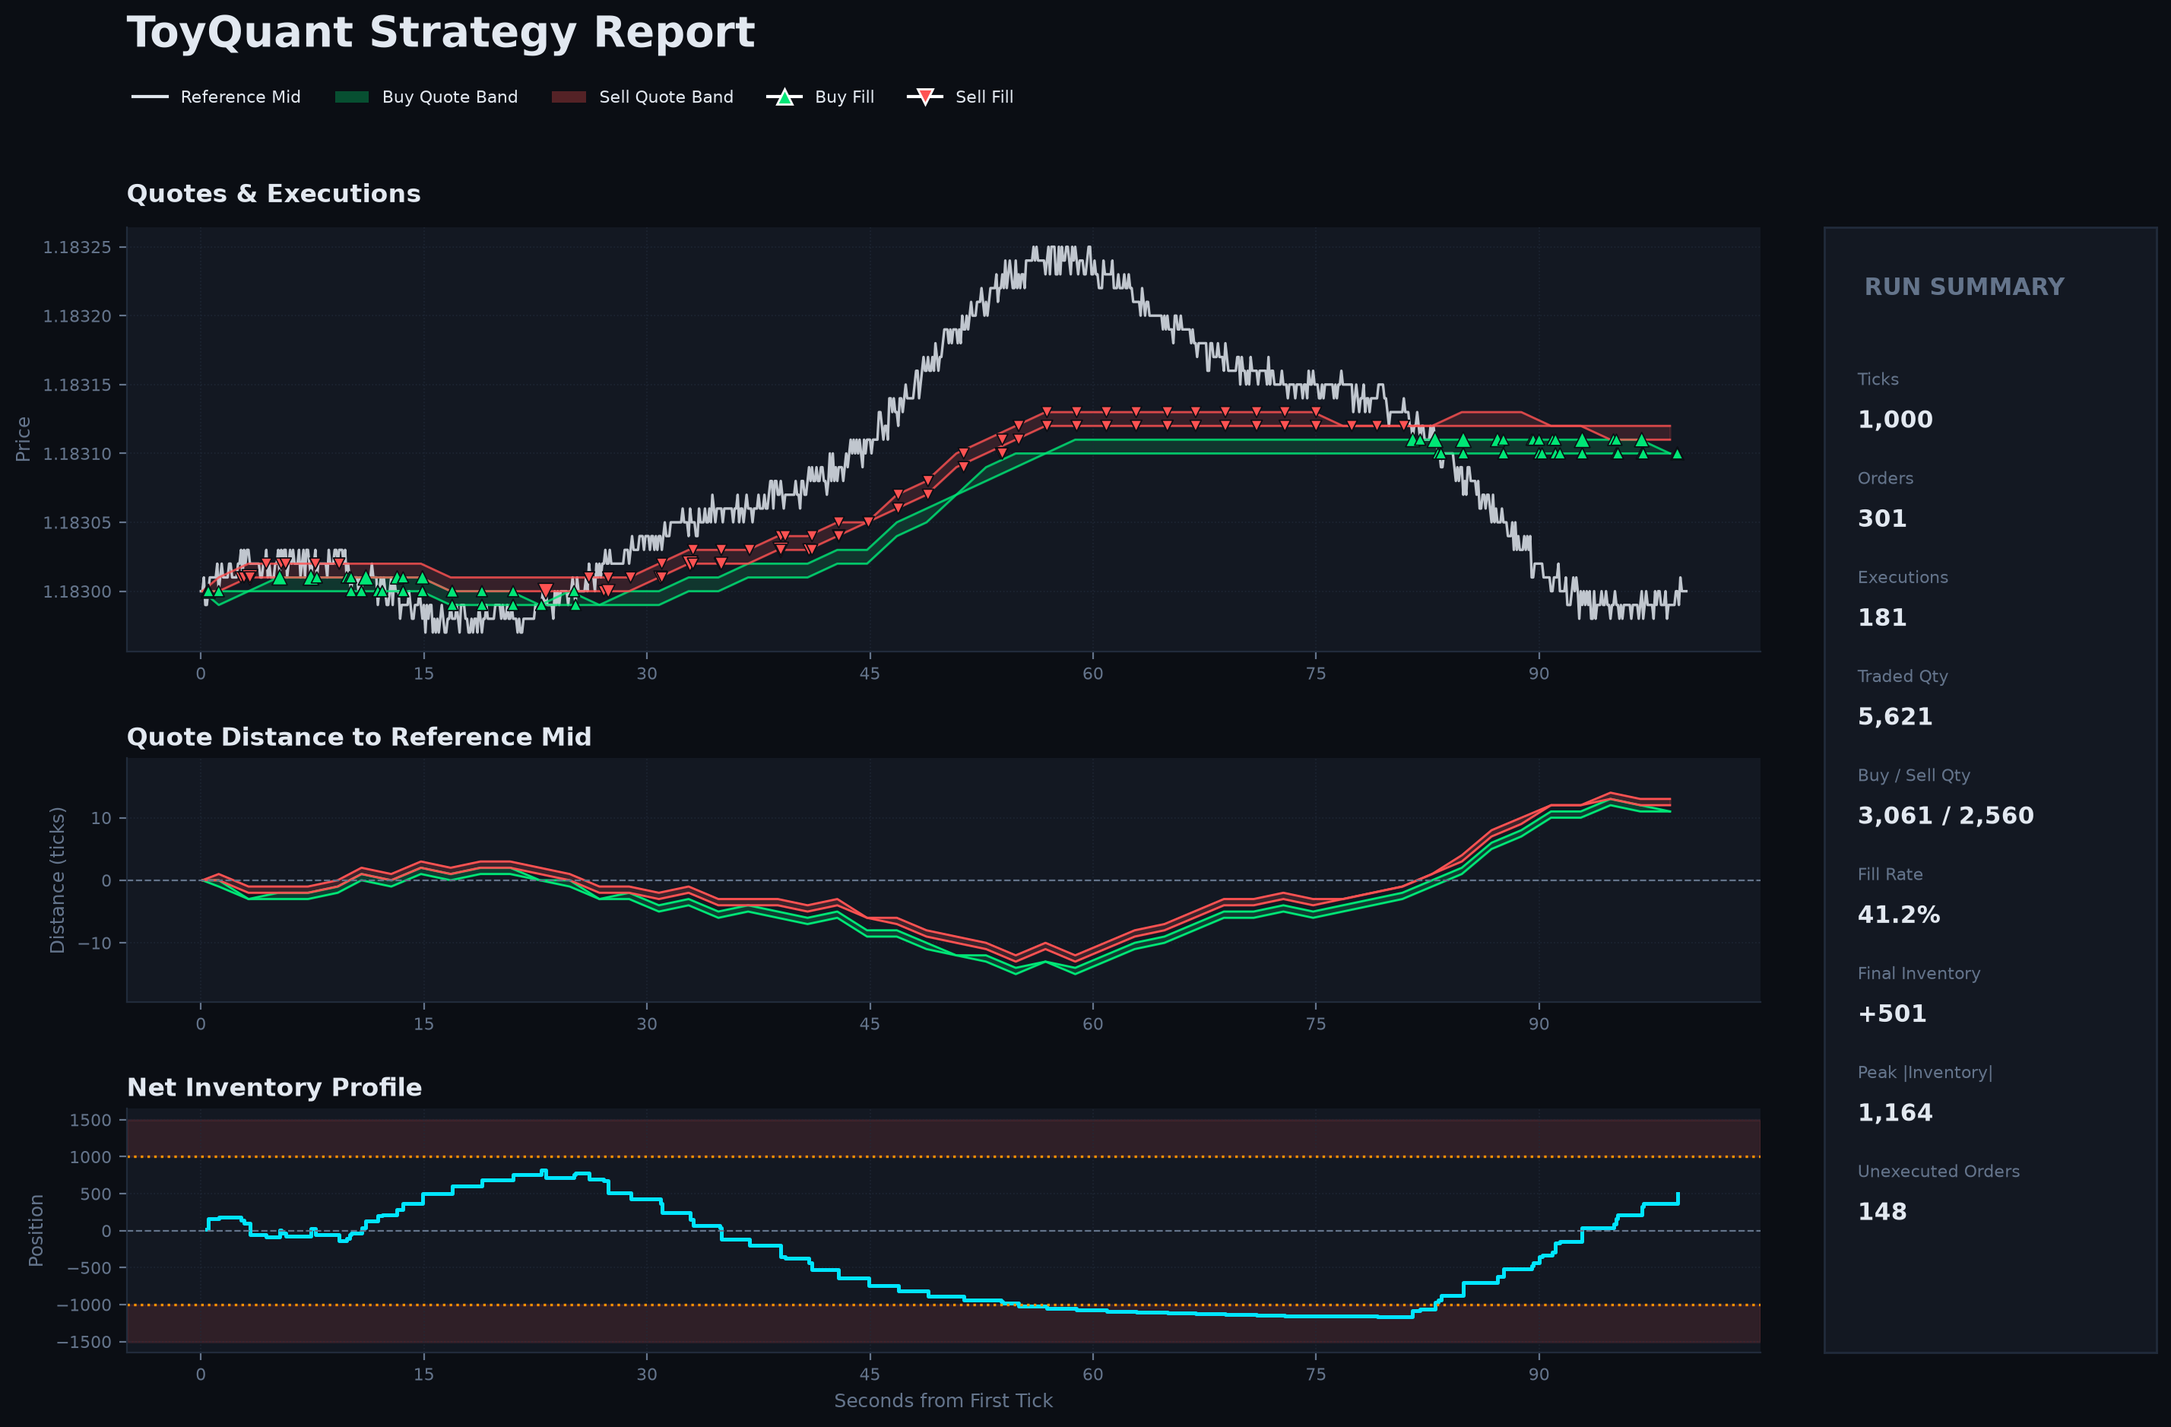
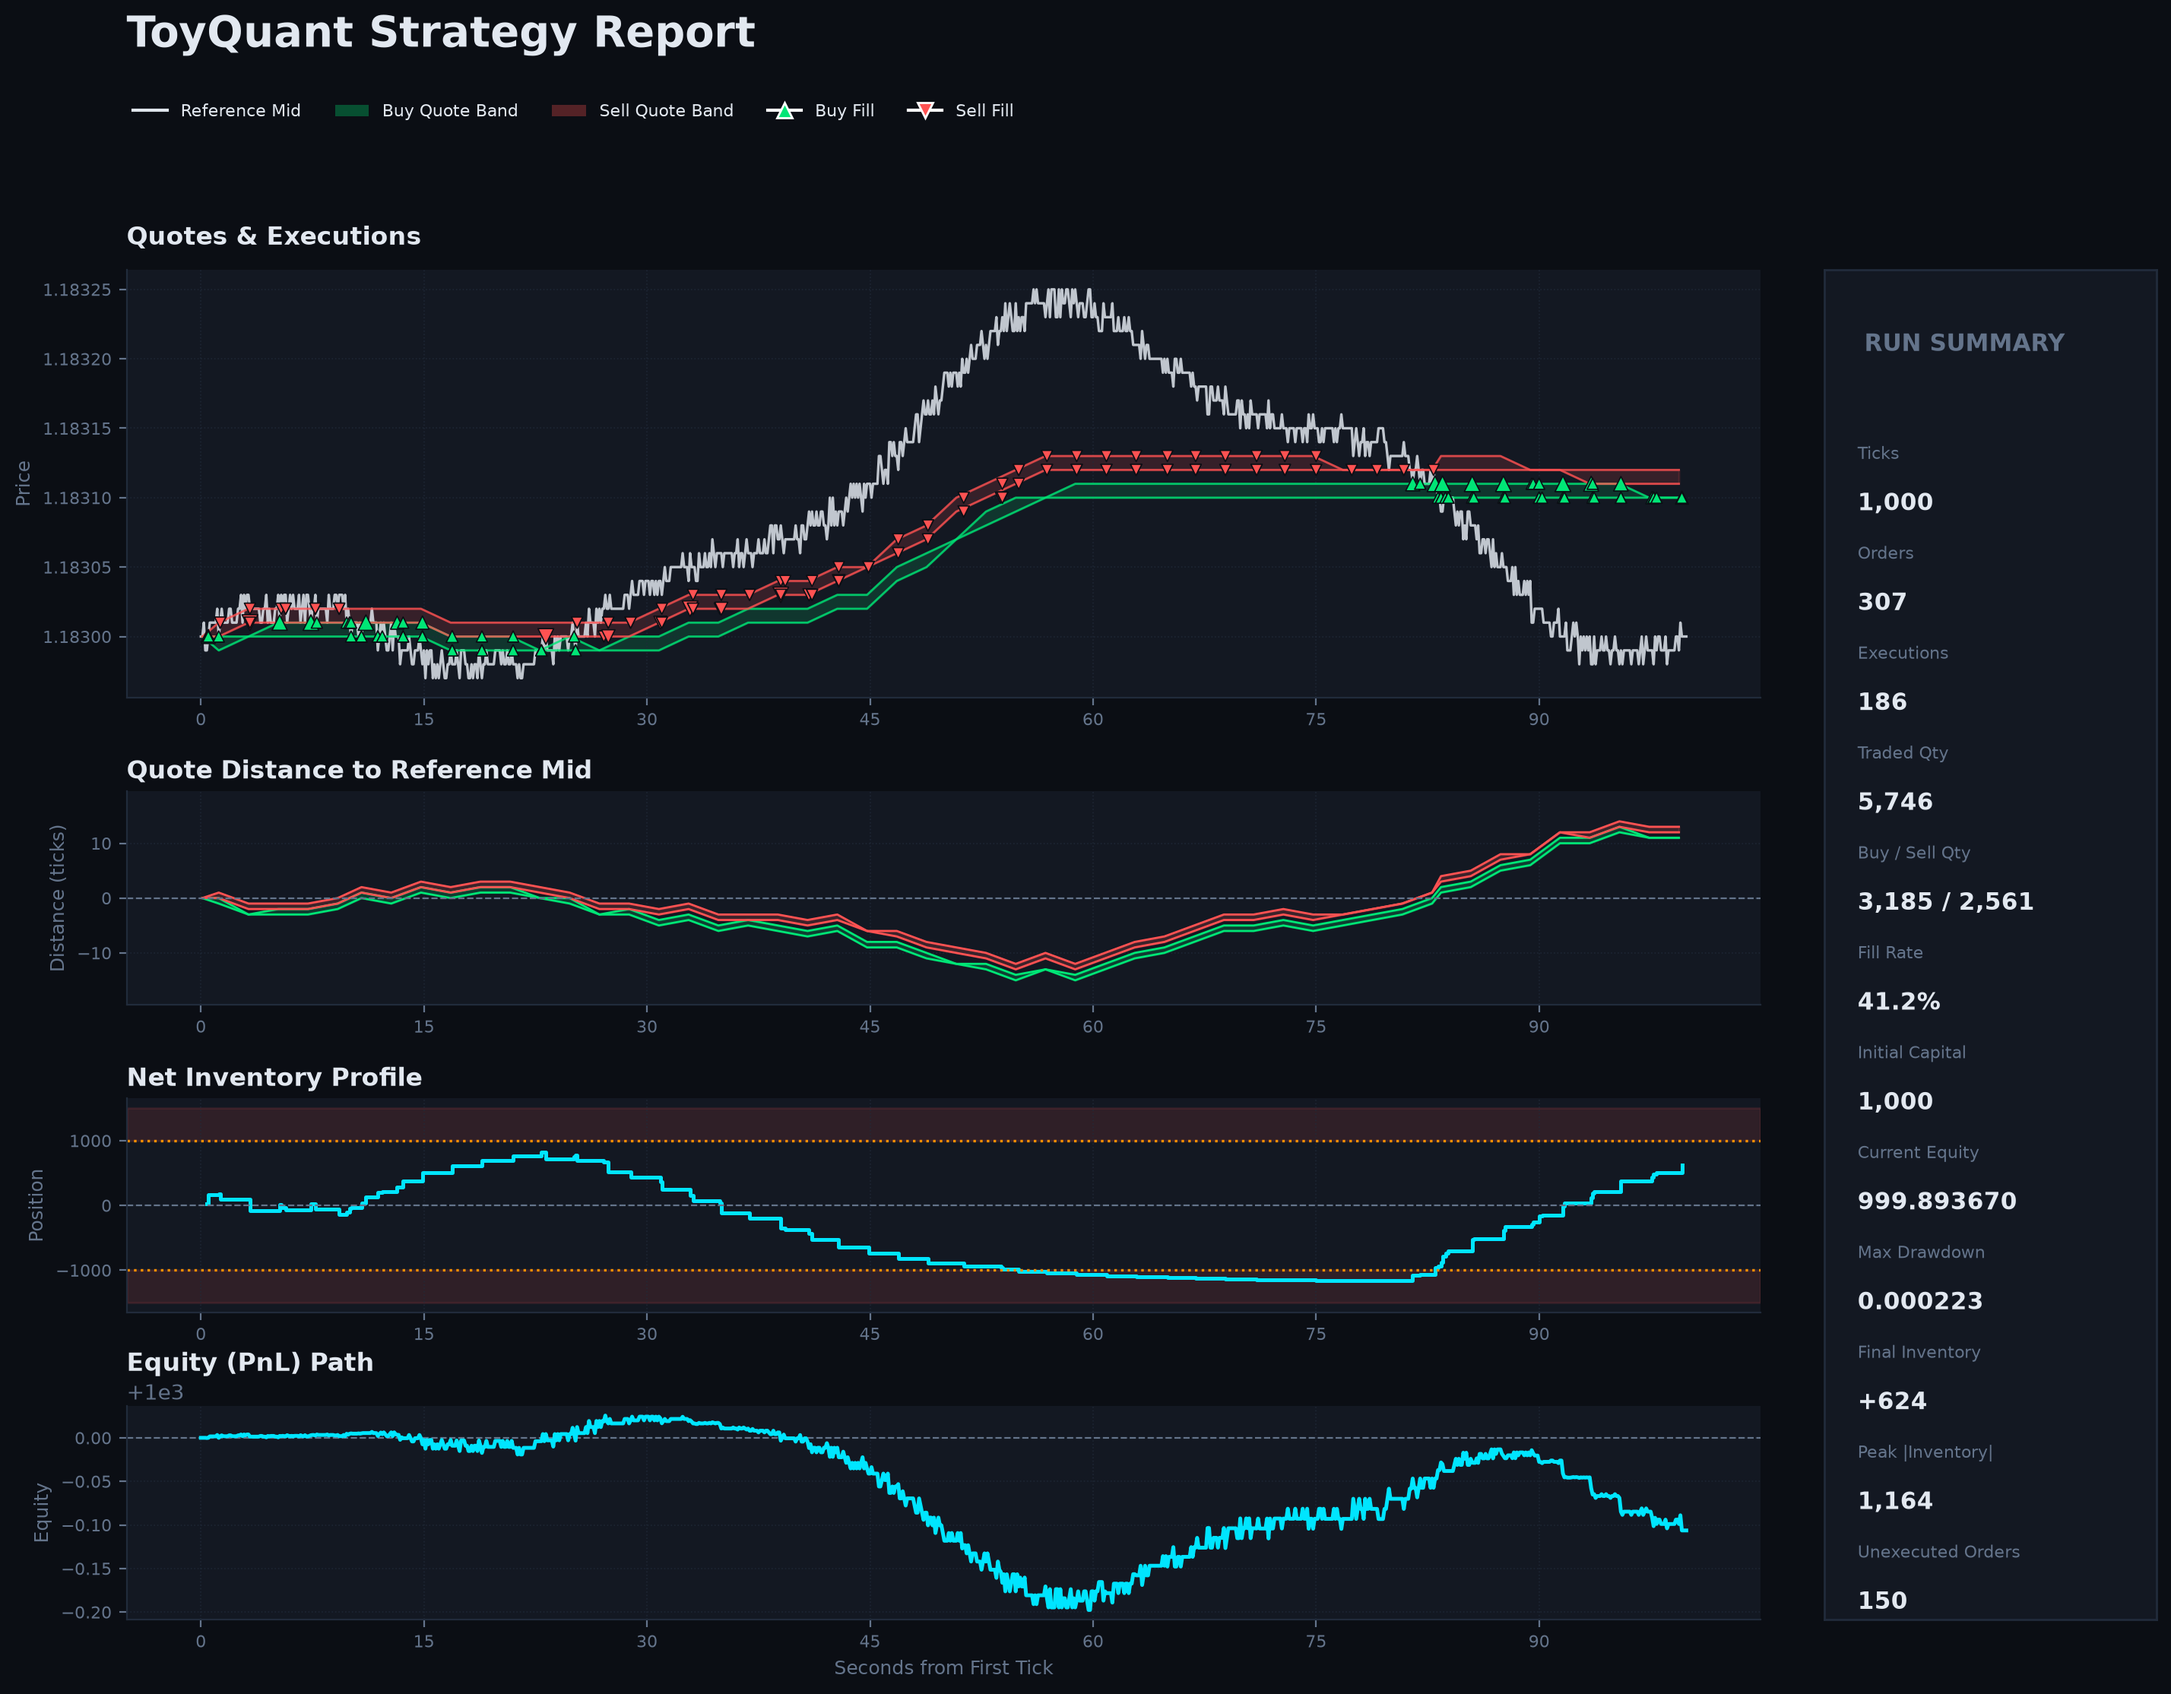
portfolio: Draw the report's equity path, and put the newest documents in the index
The report is the one artifact a reader looks at before reading anything, and its
sidebar printed `Current Equity` and `Max Drawdown` while the figure never drew
the path between them. `equity_metrics` already computed that curve and threw it
away, so drawing it costs a panel and no new input, and the numbers do not move.

The rest of the change is the same kind of staleness. `docs/index.md` is the
document that says which document answers which question, and it listed neither
of the two newest ones, so a reader following the index could not reach
`MAINLINE.md` or `RETROSPECTIVE.md` at all; the Learning Path said it points at
two places for depth where there are now four. The tracked screenshot was also
three matplotlib versions old, so regenerating it with the command the README
names moves the image to what that command produces today.

No checked claim moved: the added panel reads fields the report already
computed, and `tools/plot_report.py` is not a block the gate re-runs.

diff --git a/tools/plot_report.py b/tools/plot_report.py
@@ -152,6 +152,7 @@ def equity_metrics(tick_rows, trade_rows):
     last_prices = {}
     realized_pnl = 0.0
     equity_curve = []
+    equity_timestamps = []
     trade_index = 0
 
     for tick in tick_rows:
@@ -161,15 +162,18 @@ def equity_metrics(tick_rows, trade_rows):
             realized_pnl += apply_trade(positions, trade_rows[trade_index])
             trade_index += 1
         equity_curve.append(current_equity(realized_pnl, positions, last_prices))
+        equity_timestamps.append(tick_ts)
 
     while trade_index < len(trade_rows):
         realized_pnl += apply_trade(positions, trade_rows[trade_index])
         trade_index += 1
         equity_curve.append(current_equity(realized_pnl, positions, last_prices))
+        equity_timestamps.append(int(trade_rows[trade_index - 1]["ts"]))
 
     if not equity_curve:
         equity_curve.append(current_equity(realized_pnl, positions, last_prices))
-    return equity_curve[-1], max_drawdown(equity_curve)
+        equity_timestamps.append(0)
+    return equity_curve[-1], max_drawdown(equity_curve), equity_timestamps, equity_curve
 
 
 def build_report(tick_rows, order_rows, trade_rows, output, max_inventory):
@@ -230,7 +234,8 @@ def build_report(tick_rows, order_rows, trade_rows, output, max_inventory):
     order_ids = {row["order_id"] for row in order_rows}
     traded_ids = {row["order_id"] for row in trade_rows}
     unexecuted_orders = len(order_ids - traded_ids)
-    final_equity, report_max_drawdown = equity_metrics(tick_rows, trade_rows)
+    final_equity, report_max_drawdown, equity_timestamps, equity_values = equity_metrics(tick_rows, trade_rows)
+    equity_x = [(ts - start_ts) / 1000.0 for ts in equity_timestamps]
 
     plt.style.use("dark_background")
     plt.rcParams.update({
@@ -239,13 +244,14 @@ def build_report(tick_rows, order_rows, trade_rows, output, max_inventory):
         "axes.titleweight": "bold"
     })
 
-    fig = plt.figure(figsize=(15, 10), facecolor=COLORS["bg"])
-    layout = fig.add_gridspec(3, 5, width_ratios=(1, 1, 1, 1, 0.92),
-                              height_ratios=(2.0, 1.15, 1.15), hspace=0.35, wspace=0.18)
+    fig = plt.figure(figsize=(15, 12), facecolor=COLORS["bg"])
+    layout = fig.add_gridspec(4, 5, width_ratios=(1, 1, 1, 1, 0.92),
+                              height_ratios=(2.0, 1.0, 1.0, 1.0), hspace=0.35, wspace=0.18)
 
     price_ax = fig.add_subplot(layout[0, :4], facecolor=COLORS["panel"])
     distance_ax = fig.add_subplot(layout[1, :4], sharex=price_ax, facecolor=COLORS["panel"])
     inventory_ax = fig.add_subplot(layout[2, :4], sharex=price_ax, facecolor=COLORS["panel"])
+    equity_ax = fig.add_subplot(layout[3, :4], sharex=price_ax, facecolor=COLORS["panel"])
     kpi_ax = fig.add_subplot(layout[:, 4], facecolor=COLORS["card_bg"])
 
     # --- 1. Price Chart ---
@@ -301,10 +307,18 @@ def build_report(tick_rows, order_rows, trade_rows, output, max_inventory):
 
     inventory_ax.set_title("Net Inventory Profile", loc="left", color=COLORS["text"], fontsize=12)
     inventory_ax.set_ylabel("Position", color=COLORS["muted"], fontsize=9)
-    inventory_ax.set_xlabel("Seconds from First Tick", color=COLORS["muted"], fontsize=9)
+
+    # --- 4. Equity (PnL) Chart ---
+    # The quantity the summary reports as Current Equity, drawn as a path rather than as one number:
+    # the portfolio marked to market at every tick, with the starting capital as the reference line.
+    equity_ax.axhline(INITIAL_CAPITAL, color=COLORS["muted"], linewidth=0.8, linestyle="--")
+    equity_ax.plot(equity_x, equity_values, color=COLORS["inventory"], linewidth=1.8, zorder=3)
+    equity_ax.set_title("Equity (PnL) Path", loc="left", color=COLORS["text"], fontsize=12)
+    equity_ax.set_ylabel("Equity", color=COLORS["muted"], fontsize=9)
+    equity_ax.set_xlabel("Seconds from First Tick", color=COLORS["muted"], fontsize=9)
 
     # Apply consistent grid and border styling.
-    for axis in (price_ax, distance_ax, inventory_ax):
+    for axis in (price_ax, distance_ax, inventory_ax, equity_ax):
         axis.grid(True, color=COLORS["grid"], linestyle=":", linewidth=0.6, alpha=0.7)
         axis.spines["top"].set_visible(False)
         axis.spines["right"].set_visible(False)

diff --git a/docs/index.md b/docs/index.md
@@ -10,6 +10,7 @@ project that is a mechanical answer: most of the claims here are re-derived by t
 | evaluate the design | [Design Review](DESIGN_REVIEW.md) | [Architecture](ARCHITECTURE.md) for what exists |
 | understand market making | [Learning Path](LEARNING.md) | [Design Review](DESIGN_REVIEW.md) section 4 for the evidence |
 | read the code | [Main Line](MAINLINE.md) | the module reference in [Architecture](ARCHITECTURE.md) |
+| see why the search ended | [Retrospective](RETROSPECTIVE.md) | [Main Line](MAINLINE.md) for what to keep and what to drop |
 | run it | [User Guide](USER_GUIDE.md) | the [Data Files](https://github.com/12mango/ToyQuant-v1/blob/main/data/README.md) note for the input contracts |
 | know what it costs | [Performance](PERFORMANCE.md) | [Low-Latency Design](LATENCY_DESIGN.md) for why each change is faster |
 | see how a number was obtained | [Performance History](PERFORMANCE_HISTORY.md) | the section named in whichever document quoted it |
@@ -25,6 +26,8 @@ for talking about it out loud.
 |---|---|---|---|
 | [Design Review](DESIGN_REVIEW.md) | Why the simulator is built this way, the C++ decisions with code anchors and measured effects, the headline results, the limitations, and the interview versions | the module reference (`ARCHITECTURE`), or the raw measurement records (`PERFORMANCE_HISTORY`) | its prose is checked for flags, queue models and tool paths by `tools/lint_prose.py` |
 | [Roadmap](ROADMAP.md) | The phases from this demo to a personal execution system, what each one buys, and what is deliberately not planned | what exists today, or how to run it | prose linted with the rest |
+| [Main Line](MAINLINE.md) | The order to read the source in, the measured result each step produced, and the per-part verdict on what to keep, freeze or delete | how to run anything, or the mechanism behind a result (`LEARNING`) | prose linted |
+| [Retrospective](RETROSPECTIVE.md) | The closing document: the eight markets this project closed, the number that closed each one, and the rules that came out of it | what exists in the code, or how to run it | prose linted |
 | [Architecture](ARCHITECTURE.md) | What each module is, the data contracts between them, and the matching rules | the rationale and trade-offs (`DESIGN_REVIEW`) | marked blocks re-run by `tools/check_docs.py`; prose linted |
 | [Learning Path](LEARNING.md) | The market-making mechanisms the simulator exists to show, and a field reference | engineering decisions, or how to run anything | prose linted |
 | [User Guide](USER_GUIDE.md) | Every mode, every flag, and the failure modes that waste an afternoon | why anything is designed the way it is (`DESIGN_REVIEW`) | prose linted, so a flag it forgets or invents fails the build |

diff --git a/docs/LEARNING.md b/docs/LEARNING.md
@@ -1,10 +1,12 @@
 # Learning Path
 
 This document is the market-making side of the project: the mechanisms the simulator exists to show, in the
-order they matter, each with the measurement that supports it. It is short on purpose and it points at two
-places for depth. [Design Review](DESIGN_REVIEW.md) explains why the simulator is built the way it is and
-lists what the evidence cannot yet support; [Performance History](PERFORMANCE_HISTORY.md) holds the
-measurements themselves.
+order they matter, each with the measurement that supports it. It is short on purpose and it points at four
+places. [Design Review](DESIGN_REVIEW.md) explains why the simulator is built the way it is and lists what
+the evidence cannot yet support; [Performance History](PERFORMANCE_HISTORY.md) holds the measurements
+themselves; [Main Line](MAINLINE.md) is the order to read the source in, with the result each step produced;
+and [Retrospective](RETROSPECTIVE.md) is where these mechanisms were taken to market, one market at a time,
+and what closed each one.
 
 Sections 1, 6 and 7 are one thread and are best read together: section 1 claims that a fill is a queue
 statement rather than a price statement, section 6 shows that claim as a single order's trace, and section 7

diff --git a/README.md b/README.md
@@ -246,7 +246,7 @@ The default backtest log is `logs/backtest.log`.
 
 ## Visual Report
 
-Generate a static report with the market price, strategy quotes, executions, net inventory, and run summary:
+Generate a static report with the market price, the strategy's quotes and executions, the net inventory, the equity (PnL) path, and a run summary:
 
 ```bash
 python3 -m venv .venv
@@ -258,7 +258,9 @@ python3 -m venv .venv
   --output reports/synthetic_ticks_optimized.png
 ```
 
-The generated PNG is designed for quick inspection and README screenshots. Runtime CSV files are overwritten by the next simulation, so generate or copy the report before starting another run.
+The generated PNG is designed for quick inspection and README screenshots. The last panel is the same
+quantity as the summary's `Current Equity`, drawn as a path over the run rather than as one number. Runtime
+CSV files are overwritten by the next simulation, so generate or copy the report before starting another run.
 
 ![ToyQuant simulation report](reports/synthetic_ticks_optimized.png)
 

diff --git a/docs/USER_GUIDE.md b/docs/USER_GUIDE.md
@@ -673,11 +673,14 @@ production trading performance.
 
 ## Generate a Visual Report
 
-After running a scenario, create a static report with the three main views:
+After running a scenario, create a static report with the four main views:
 
 - `Quotes & Executions`: reference tick price, buy/sell quote bands, and execution markers.
 - `Quote Distance to Reference Mid`: quote displacement from the reference price in ticks.
 - `Net Inventory Profile`: signed inventory and the configured `+/-1000` inventory boundary.
+- `Equity (PnL) Path`: the portfolio marked to market at every tick, with the starting capital as the
+  reference line. It is the path whose end is the summary's `Current Equity` and whose worst drop is
+  its `Max Drawdown`.
 
 The report also includes a right-side summary panel with order count, executions, traded quantity,
 fill rate, initial capital, current equity, max drawdown, inventory peak, and unexecuted orders.
